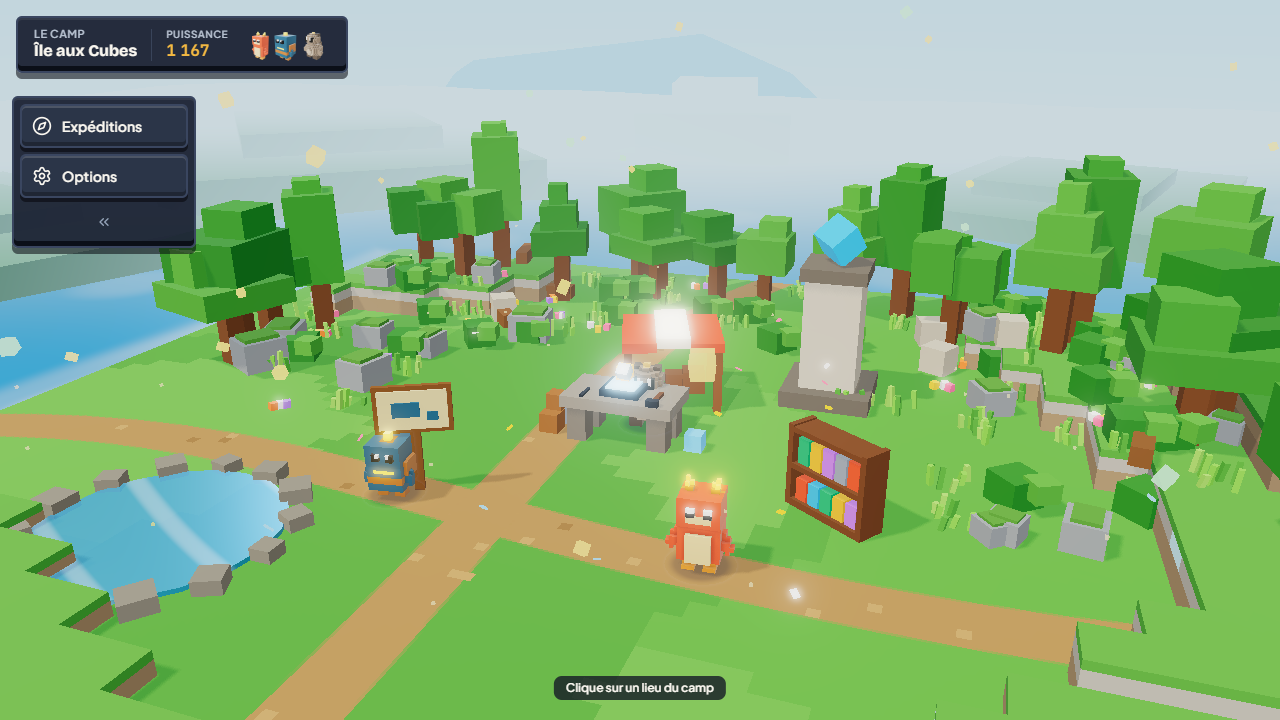
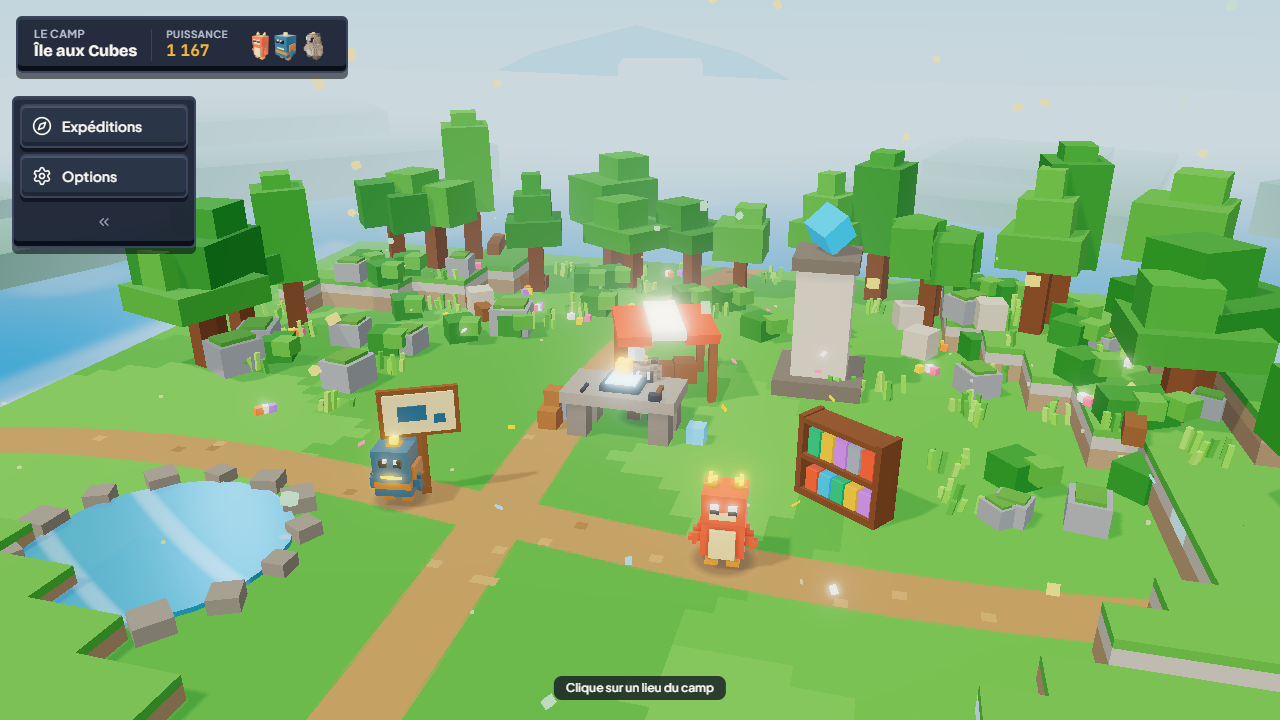
art3.5: collines a un etage en Bas (Bas 171 appels / 16 832 triangles, sous art2-final), captures R17 et mesures, rapport ART3, CLAUDE.md

diff --git a/src/game/models/meadowDecor.ts b/src/game/models/meadowDecor.ts
@@ -336,20 +336,21 @@ export function addMeadowArtDecor(env: THREE.Group, arenaRadius: number, isCamp:
   // blocs pâles qui flottaient au-dessus des arbres (biomes.ts ne les crée plus pour la Prairie du sprint Art)
   const hillCount = 12;
   const hillMat = new THREE.MeshStandardMaterial({ color: '#A6C8B8', roughness: 1 });
-  const hills = new THREE.InstancedMesh(new THREE.BoxGeometry(1, 1, 1), hillMat, hillCount * 2);
+  const tiers = low ? 1 : 2; // qualité Basse : un seul étage (budget de triangles d'ART 2)
+  const hills = new THREE.InstancedMesh(new THREE.BoxGeometry(1, 1, 1), hillMat, hillCount * tiers);
   for (let i = 0; i < hillCount; i++) {
     const a = (i / hillCount) * Math.PI * 2 + 0.3;
     const d = arenaRadius + 30 + (i % 3) * 10;
     const w = 18 + (i % 4) * 5;
     const h = 1.8 + (i % 3) * 1.2; // basses : des collines au ras de l'horizon, pas des blocs qui flottent
-    for (let k = 0; k < 2; k++) {
+    for (let k = 0; k < tiers; k++) {
       dummy.position.set(Math.cos(a) * d, -2 + (k ? h + h * 0.25 : h / 2), Math.sin(a) * d);
       dummy.scale.set(k ? w * 0.5 : w, k ? h * 0.5 : h, k ? w * 0.4 : w * 0.7);
       dummy.rotation.set(0, -a, 0);
       dummy.updateMatrix();
-      hills.setMatrixAt(i * 2 + k, dummy.matrix);
+      hills.setMatrixAt(i * tiers + k, dummy.matrix);
       color.set('#A6C8B8').offsetHSL(0, 0, k ? 0.03 : 0);
-      hills.setColorAt(i * 2 + k, color);
+      hills.setColorAt(i * tiers + k, color);
     }
   }
   env.add(hills);

diff --git a/docs/rapports/ART3.md b/docs/rapports/ART3.md
@@ -1,0 +1,173 @@
+# Sprint ART 3 : créatures sculptées, décor épuré — rapport
+
+## 1. Résumé
+
+- **Créatures** : les 9 créatures reprennent les formes et les couleurs d'ART 1. Ont été ajoutés :
+  - des lueurs d'élément, plus fortes la nuit ;
+  - des bobines lumineuses ;
+  - un contour lumineux ;
+  - un dégradé de volume ;
+  - une ombre au sol nette.
+
+  Aucune forme n'a été simplifiée (testé).
+- **Prairie épurée** :
+  - sol en grands aplats de deux verts ;
+  - plateaux d'un bloc et falaises en couches, avec des veines de cristal qui luisent la nuit ;
+  - arbres de 2 ou 3 volumes ;
+  - collines lointaines dans la brume, à la place des gros blocs pâles.
+- **Ambiance** : brume plus marquée à l'aube. La nuit, les lueurs des créatures, les cristaux et les lucioles éclairent le décor.
+- **Chargeur `.vox`** (MagicaVoxel) : un modèle facultatif par espèce, avec un essai possible dans `?gallery=art`. Il est prouvé par un fichier d'essai généré par script. Aucune créature n'est remplacée. Le guide est `docs/guide-vox.md`.
+- **Vérifications** : golden identique à chaque section ; Bas à 171 appels de dessin et 16 832 triangles, sous `art2-final` (175 / 16 884). Publié sur …/next/.
+
+## 2. Tags et retour arrière
+
+Départ : `art2-final` (le tag existe). Branche : `art-3`. `main` n'a pas bougé.
+
+| Tag | État sauvegardé |
+| --- | --- |
+| `sauvegarde-avant-art3` (tag et branche, vérifiés) | `art2-final` |
+| `art3-avant-retour-art1` | avant la section 0 (fiche commitée) |
+| `art3-avant-ajouts` | avant la section 1 |
+| `art3-avant-decor` | avant la section 2 |
+| `art3-avant-lumiere` | avant la section 3 |
+| `art3-avant-vox` | avant la section 4 |
+| `art3-avant-rapport` | avant la section 5 |
+| `art3-final` | fin du sprint |
+
+Tous les tags sont poussés et vérifiés avec `git ls-remote --tags origin`.
+
+Incident : le premier essai de `sauvegarde-avant-art3` a créé un tag imbriqué (un tag qui pointe sur le tag `art2-final`), et le push a échoué, parce que le tag et la branche portent le même nom. Je l'ai recréé sur le commit lui-même, puis poussé avec les références complètes (`refs/tags/…`, `refs/heads/…`).
+
+## 3. Ce qui a changé, par section
+
+### Section 0 : retour aux créatures d'ART 1
+
+- `sculptDefs.ts` est restauré depuis `art-final` (`git checkout art-final -- …`). Il est identique à `sculptDefsArt1.ts`, au nom de l'export près.
+- La palette d'origine revient (plus la tête pâle d'ART 2), ainsi que l'ombre douce d'ART 1 (0,16).
+- La version d'ART 2 est figée dans `sculptDefsArt2.ts`, uniquement pour la galerie.
+- Gardé d'ART 2 :
+  - l'allègement en Basse (les yeux et les parties lumineuses ne projettent pas d'ombre) ;
+  - le cadrage à 70 % dans la galerie et les portraits ;
+  - le vent, le camp, la manette tactile, les boutons de 44 px.
+- `?gallery=art` a quatre colonnes (« Avant ART », « ART 1 », « ART 2 », « ART 3 ») et le bouton Silhouettes. Le portrait tournant prend une `version` au lieu de deux booléens.
+- Tests :
+  - têtes de 30 à 40 % pour le jeu (règle d'ART 1) ;
+  - ART 3 a exactement les mêmes blocs qu'ART 1 ;
+  - la copie d'ART 2 garde ses têtes de 45 à 50 % ;
+  - les 9 silhouettes restent différentes à 64 px.
+
+### Section 1 : faire mieux qu'ART 1, par ajouts seulement
+
+Tout passe par le matériau (`patchArt3Material`, `voxelSculpt.ts`) : aucun objet ni appel de dessin en plus.
+
+1. **Lueurs d'élément** :
+   - les parties d'accent qui luisaient déjà (braise, lave de Magmadrake et d'Ignisaur, filament d'Ampoulin, cristaux de Cailloc) luisent 35 % plus fort, et jusqu'à 2,4 fois plus la nuit au camp ;
+   - les bandes de cuivre de Bobinard et Voltacier luisent dans leur propre couleur (drapeau `glow` sur des formes existantes : ni forme ni couleur changée) ;
+   - la force de la nuit revient au jour au départ d'un combat (il n'y a pas de nuit en combat).
+2. **Contour lumineux** : les faces vues en biais s'éclairent légèrement, d'un ton chaud. Il est coupé en Basse.
+3. **Ombre au sol nette** : un disque à bord franc (plein jusqu'aux trois quarts), au lieu du dégradé large.
+4. **Dégradé de volume** : le bas de chaque pièce est 10 % plus sombre que le haut. Ce n'est pas une nouvelle couleur (testé : rapport de 0,9 à 1).
+5. **Yeux** : ceux d'ART 1 ont déjà un reflet blanc (testé depuis ART 1) et le clignement est inchangé. Rien n'a été ajouté.
+
+Décision : aucune créature n'est gardée en version ART 1 pure. Les ajouts ne changent ni la forme ni la couleur, et la colonne ART 3 montre la même créature. **Mais je n'ai pas pu juger « plus vivante et plus impressionnante » ailleurs que sur des images fixes** ; c'est à vous de trancher. Revenir à ART 1 pour une créature ou pour toutes se fait en un point : l'argument `art3` de `buildSculptRig` dans `creatures.ts`.
+
+### Section 2 : décor épuré de la Prairie (camp et niveaux de la Prairie)
+
+1. **Sol** : 9 grands aplats de deux verts voisins, à bords en marches de 8 pixels, sur le vert de fond. Il y a 3 verts en tout ; le damier de petits carrés a disparu.
+2. **Plateaux** : des terrasses d'un bloc (au lieu de 0,5). Le dessus alterne deux verts, et les flancs montrent des bandes de terre et de pierre (3 tons) sous une lèvre d'herbe. Tout se fait dans le shader.
+3. **Arbres** : 5 silhouettes de 2 ou 3 volumes chacune (bloc et chapeau décalé, table et tour basse, pyramide en trois marches, colonnes jumelles, fuseau haut), en 3 verts proches. Le vent d'ART 2 est gardé.
+4. **Fond** : les 14 gros îlots pâles ne sont plus ajoutés à la Prairie. Ils sont remplacés par 12 collines basses à deux étages, couleur de brume. Les autres biomes et les outils n'ont pas changé.
+5. **Signature** : il y a des veines de cristal dans 3,5 % des blocs de falaise, qui luisent doucement la nuit, ainsi que 4 blocs de pierre taillée et 4 billes de bois brut (pas en Basse).
+6. Gardé d'ART 2 : le premier plan dégagé, les touffes d'herbe et de fleurs, le chemin et les quatre lieux.
+
+Anti-plagiat : seuls les principes ont été repris (aplats, lisibilité). Les arbres ne reprennent pas la boule sur un bâton, et la palette est celle de la Prairie d'origine.
+
+### Section 3 : lumière et ambiance
+
+- Au camp de la Prairie, la brume va de 28 à 78 (au lieu de 30 à 82) ; autour de l'aube, de 18 à 62. Nouvelle capture `camp-aube`.
+- La nuit, les lueurs des créatures, les veines de cristal et les lucioles suivent le cycle du camp. Le feu de l'atelier est gardé.
+- Attaques annoncées :
+  - il n'y a pas de nuit en combat (le cycle ne tourne qu'au camp) ;
+  - un test vérifie que le rouge `DANGER` reste bien distinct de chacune des 9 teintes du décor épuré (écart RGB ≥ 0,35) ;
+  - **je n'ai pas pu les voir à l'écran** : le navigateur headless ne joue pas le combat jusqu'au boss.
+
+### Section 4 : chargeur `.vox`
+
+- `models/voxFile.ts` lit et écrit le format MagicaVoxel (SIZE, XYZI, RGBA) sans dépendance.
+- Couleurs réservées :
+  - 240 à 247 : lueur ;
+  - 248 : œil ;
+  - 249 : reflet ;
+  - 250 à 252 et 253 à 255 : jambes.
+- La créature `.vox` passe par le même constructeur que les créatures du code : même échelle de bloc, même éclairage, mêmes animations (jambes, clignement, corps) et mêmes lueurs.
+- Un fichier facultatif `src/assets/vox/<espèce>.vox` est chargé au démarrage et remplace le modèle de cette espèce. Il n'y en a aucun : les 9 créatures gardent leur modèle (testé).
+- Preuve :
+  - `npm run vox:exemple` génère `tools/fixtures/exemple-essai.vox` ;
+  - `vox.test.ts` vérifie la relecture, l'aller-retour, les rôles, l'orientation, la construction et le refus d'un fichier invalide ;
+  - la capture `art-vox` montre le fichier chargé dans la colonne ART 3.
+- `?gallery=art` permet « Essayer un .vox » et « Retirer le .vox » (rien n'est enregistré), ainsi que `&vox=exemple`.
+- `docs/guide-vox.md` donne la taille, l'orientation, les couleurs réservées, où déposer le fichier, comment le voir, et les limites.
+
+## 4. Mesures avant/après (`?stage=meadow-2&debug=1&quality=X`, 1280 × 720)
+
+| Qualité | `art2-final` (appels / triangles) | ART 3 |
+| --- | --- | --- |
+| Bas | 175 / 16 884 | **171 / 16 832** |
+| Moyen | 378 / 107 894 | 382 / 104 110 |
+| Haut | 580 / 161 874 | 586 / 156 198 |
+
+- En Basse, le premier essai donnait 16 976 triangles, au-dessus de la limite. Décision : en Basse, les collines n'ont qu'un étage, et la pierre et le bois ne sont pas posés. Le Bas repasse sous `art2-final`.
+- En Moyen et en Haut, il y a 4 à 6 appels de plus (les blocs de pierre et de bois, les collines). La règle ne fixe de plafond qu'en Basse.
+
+`npm run check` : 142 tests, golden identique (840 combats), build OK. `npm run texts` = 0, `npm run lexique` = 0.
+
+## 5. Valeurs de jeu modifiées
+
+Aucune. Le golden est identique ; tout le visuel est réservé au navigateur.
+
+## 6. R17 (au doigt, 390 × 844, qualité Basse)
+
+- Ce sprint n'ajoute aucune action au jeu. Le seul nouveau contrôle est « Essayer un .vox », dans la galerie de développement : c'est un sélecteur de fichier de 44 px.
+- La manette, les boutons de 44 px et le recul de la caméra d'ART 2 sont inchangés.
+- Les captures en 390 × 844 du camp (jour, nuit, aube) et d'un combat de la Prairie montrent le chemin, les quatre lieux et la mêlée.
+- Non vérifié avec un vrai doigt (pas d'événements tactiles en headless). Les captures en téléphone sont faites en qualité par défaut ; la qualité Basse est mesurée à part, en 1280 × 720.
+
+## 7. Captures (`docs/captures/art3/`)
+
+- `avant/` : l'état `art2-final`.
+- `apres/` :
+  - `art-magmadrake`, `art-pyrocube`, `art-raicube`, `art-silhouettes` (quatre colonnes) ;
+  - `lignee-*` ;
+  - `camp-jour`, `camp-nuit` et `camp-aube`, en bureau et téléphone ;
+  - `combat-prairie` et `boss-prairie` ;
+  - `equipe` ;
+  - `art-vox` ;
+  - `mesure-prairie-low`, `-medium` et `-high`.
+
+## 8. Vu seulement sur images fixes (à juger en jeu)
+
+- Si Magmadrake et les autres paraissent « plus vivants, plus impressionnants » qu'en ART 1 : les ajouts sont discrets, de jour surtout.
+- Les lueurs la nuit en mouvement, le contour lumineux en rotation, l'ombre au sol nette pendant les sauts.
+- La lisibilité des attaques annoncées sur le nouveau sol (vérifiée seulement par calcul de couleur).
+- Le vent dans les nouveaux arbres, et la brume de l'aube qui se lève.
+- Les FPS sur une vraie machine.
+
+## 9. Idées (hors périmètre)
+
+- Appliquer le décor épuré (aplats, falaises en couches) aux autres biomes après votre validation.
+- Pour les modèles `.vox` : une version allégée en Basse, la variante de couleur, et des pièces animées en plus (queue, ailes) avec d'autres couleurs réservées.
+
+## Restart handle
+
+- Changé :
+  - `sculptDefs.ts` (ART 1) et `sculptDefsArt2.ts` (nouveau, figé) ;
+  - `voxelSculpt.ts` (ajouts ART 3, `voxels` / `rgb`), `creatures.ts`, `shared.ts` (ombre nette) ;
+  - `meadowDecor.ts` (décor épuré), `biomes.ts` (îlots retirés de la Prairie art), `atmosphere.ts`, `expedition.ts`, `postfx.ts`, `main.tsx` ;
+  - `voxFile.ts`, `voxExemple.ts` ;
+  - `ArtGallery.tsx`, `CreatureTurntable.tsx` ;
+  - tests `art`, `vox` ;
+  - `captures.ps1` (`camp-aube`, `art-vox`), `package.json` (`vox:exemple`).
+- Non vérifié : la section 8, et le toucher réel.
+- Retour en arrière : `art3-avant-*` ou `sauvegarde-avant-art3`.
+- Ne pas toucher : `main`, et le golden (identique).
+- Prochaine étape sûre : comparer ART 1 et ART 3 dans `…/next/?gallery=art`, jouer la Prairie de jour et de nuit, puis avancer `main` sur `art3-final` si le résultat convient.
